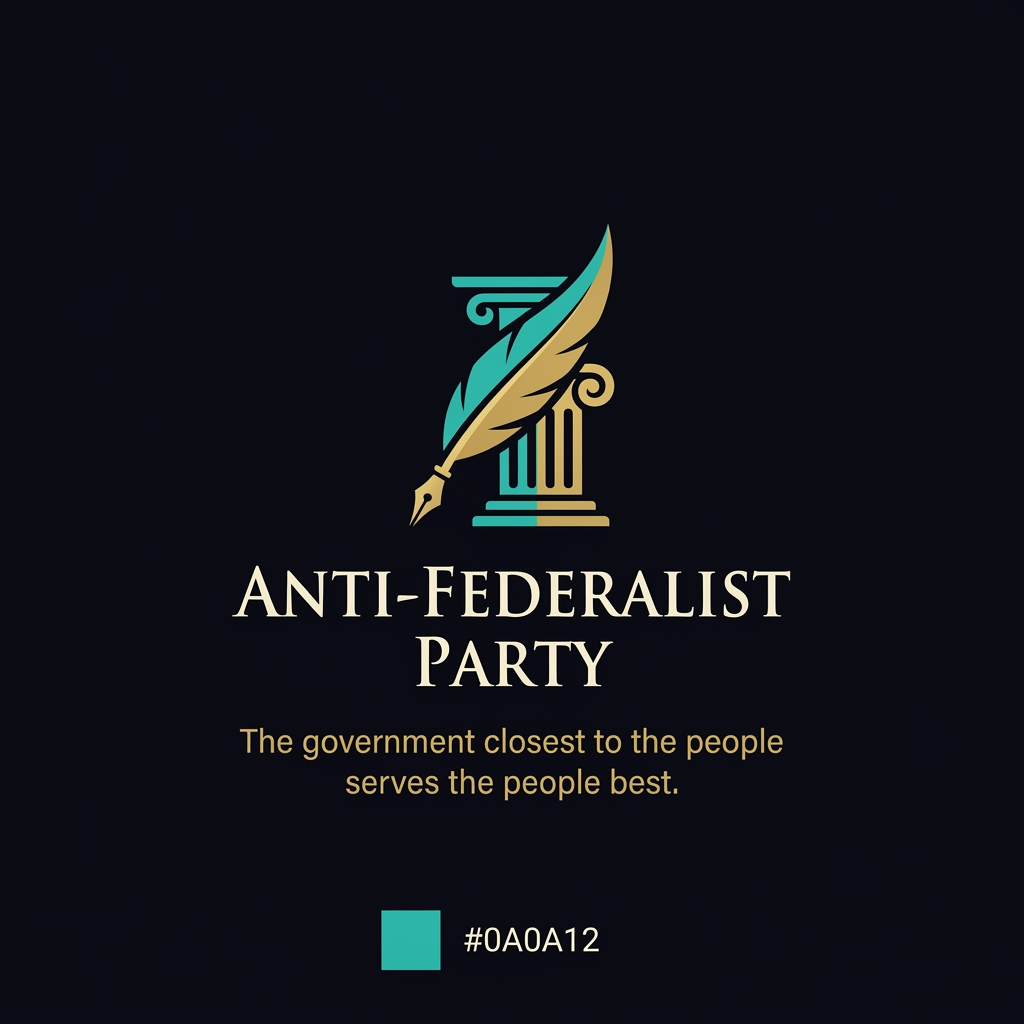
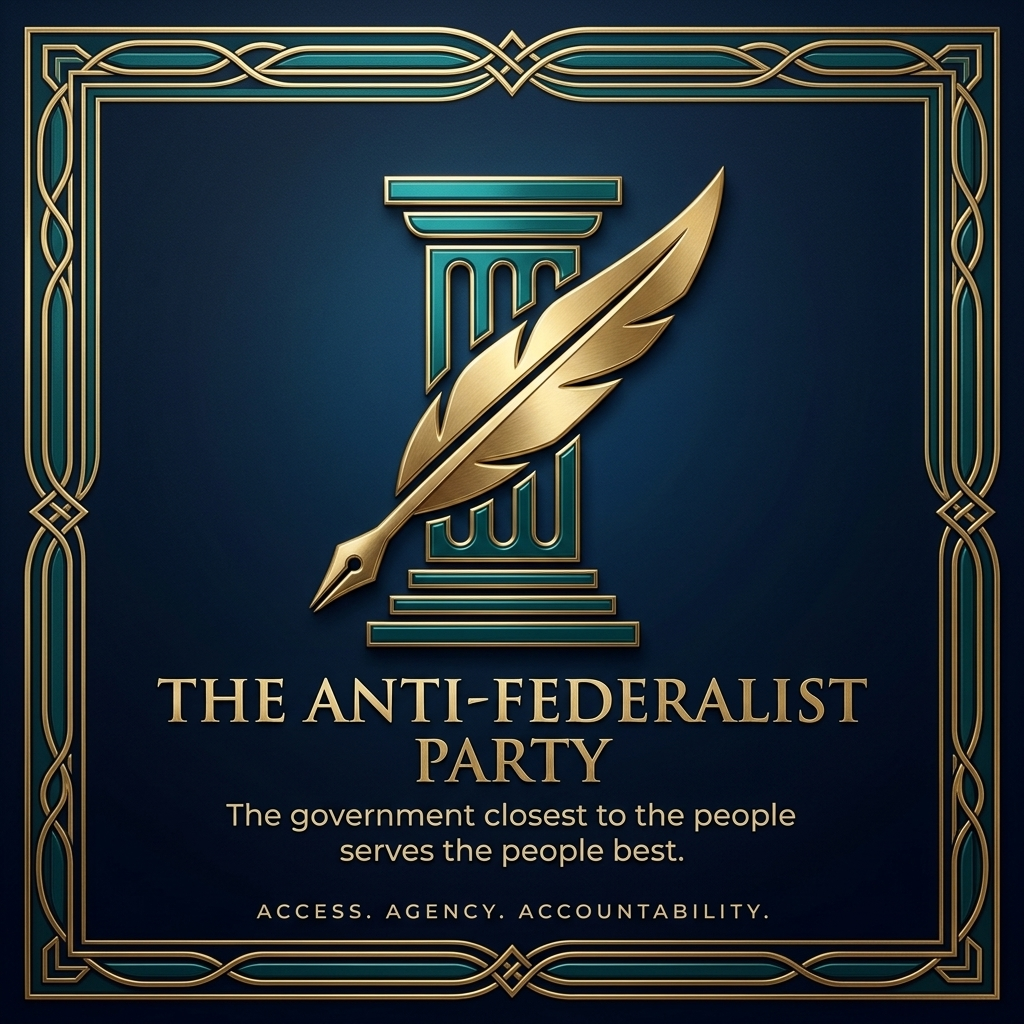
v1.0.0c - Errors patched and opengraph image upgraded.

diff --git a/src/app/documents/page.tsx b/src/app/documents/page.tsx
@@ -19,10 +19,10 @@ const CORE_DOCUMENTS = [
 ];
 
 const STATE_DOCUMENTS = [
-  { filename: 'state-formation-packet.pdf', title: 'State Formation Packet', description: 'Complete filing documentation for state-level party recognition. Includes statement of organization, principles adoption, financial disclosure, petition and convention certification, and submission checklist.', pages: '7', icon: FileText, color: '#EF4444' },
-  { filename: 'state-committee-bylaws.pdf', title: 'State Committee Bylaws', description: 'Governing rules for the state coordinating body covering composition, officers, meetings, candidate endorsement, finances, amendments, and dissolution.', pages: '6', icon: BookOpen, color: '#EF4444' },
-  { filename: 'ballot-access-petition.pdf', title: 'Ballot Access Petition', description: 'Standardized petition template with signature collection table, circulator affidavit, and notarization block. Adaptable to state-specific format requirements.', pages: '4', icon: Vote, color: '#EF4444' },
-  { filename: 'candidate-nomination.pdf', title: 'Candidate Nomination Form', description: 'Official nomination form for candidates seeking party endorsement. Covers candidate information, principles affirmation, qualifications, and endorsement request.', pages: '4', icon: Users, color: '#EF4444' },
+  { filename: 'state-formation-packet.pdf', title: 'State Formation Packet', description: 'Complete filing documentation for state-level party recognition. Includes statement of organization, principles adoption, financial disclosure, petition and convention certification, and submission checklist.', pages: '7', category: 'State Filing', icon: FileText, color: '#EF4444' },
+  { filename: 'state-committee-bylaws.pdf', title: 'State Committee Bylaws', description: 'Governing rules for the state coordinating body covering composition, officers, meetings, candidate endorsement, finances, amendments, and dissolution.', pages: '6', category: 'State Filing', icon: BookOpen, color: '#EF4444' },
+  { filename: 'ballot-access-petition.pdf', title: 'Ballot Access Petition', description: 'Standardized petition template with signature collection table, circulator affidavit, and notarization block. Adaptable to state-specific format requirements.', pages: '4', category: 'State Filing', icon: Vote, color: '#EF4444' },
+  { filename: 'candidate-nomination.pdf', title: 'Candidate Nomination Form', description: 'Official nomination form for candidates seeking party endorsement. Covers candidate information, principles affirmation, qualifications, and endorsement request.', pages: '4', category: 'State Filing', icon: Users, color: '#EF4444' },
 ];
 
 function DocumentCard({ doc, i }: { doc: typeof CORE_DOCUMENTS[0]; i: number }) {